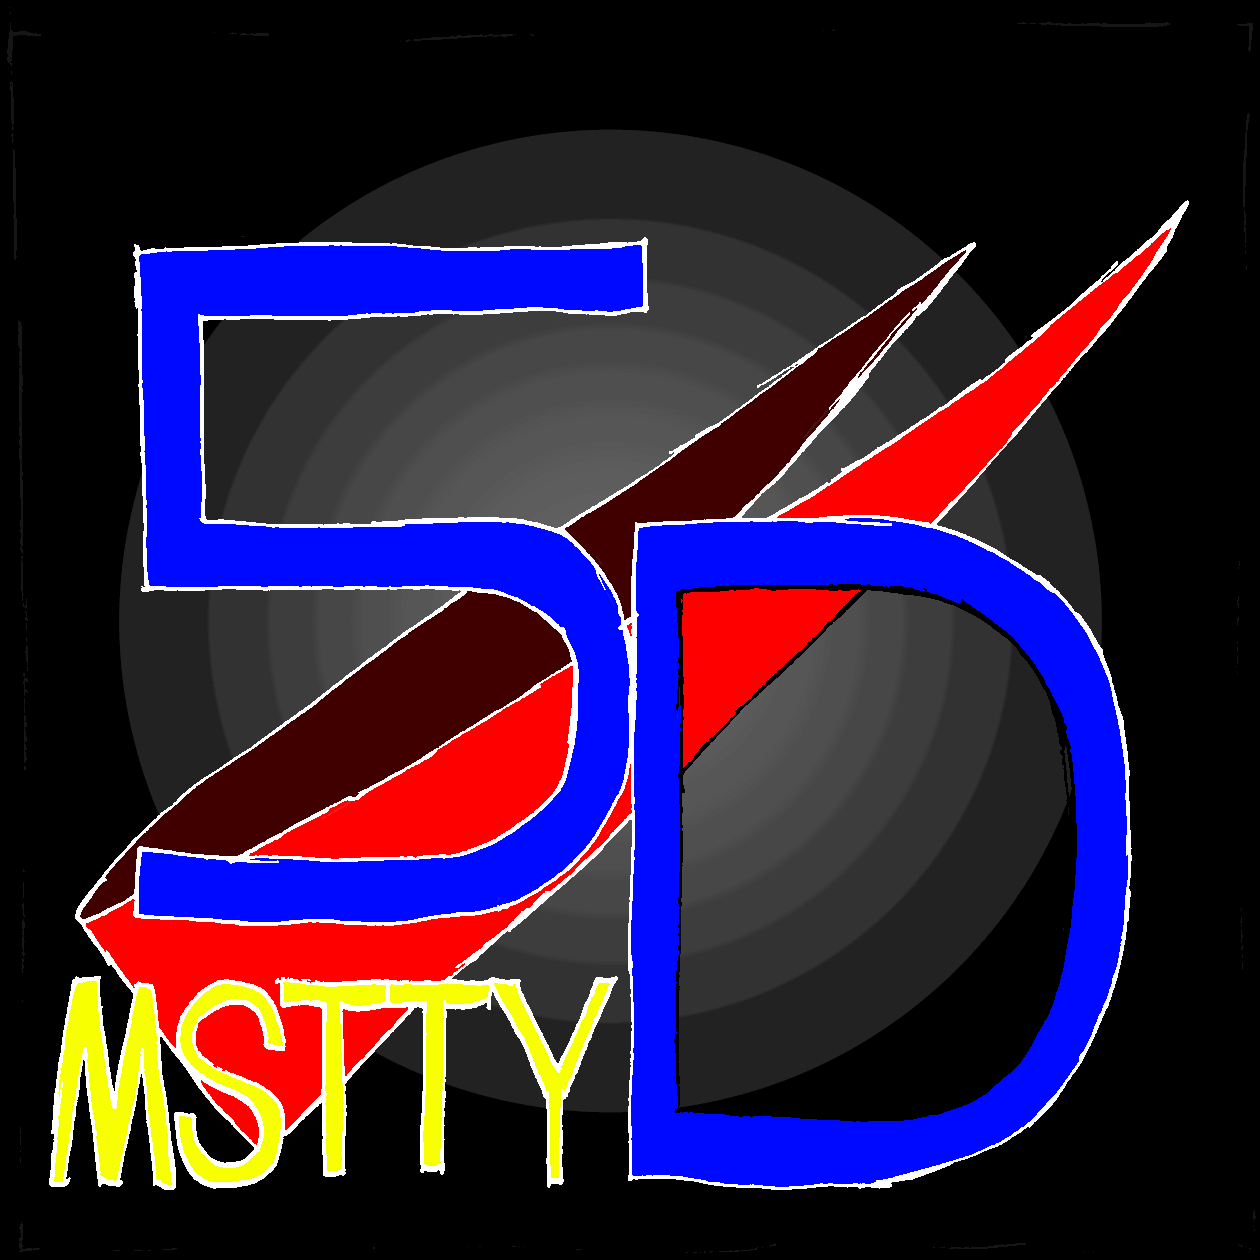
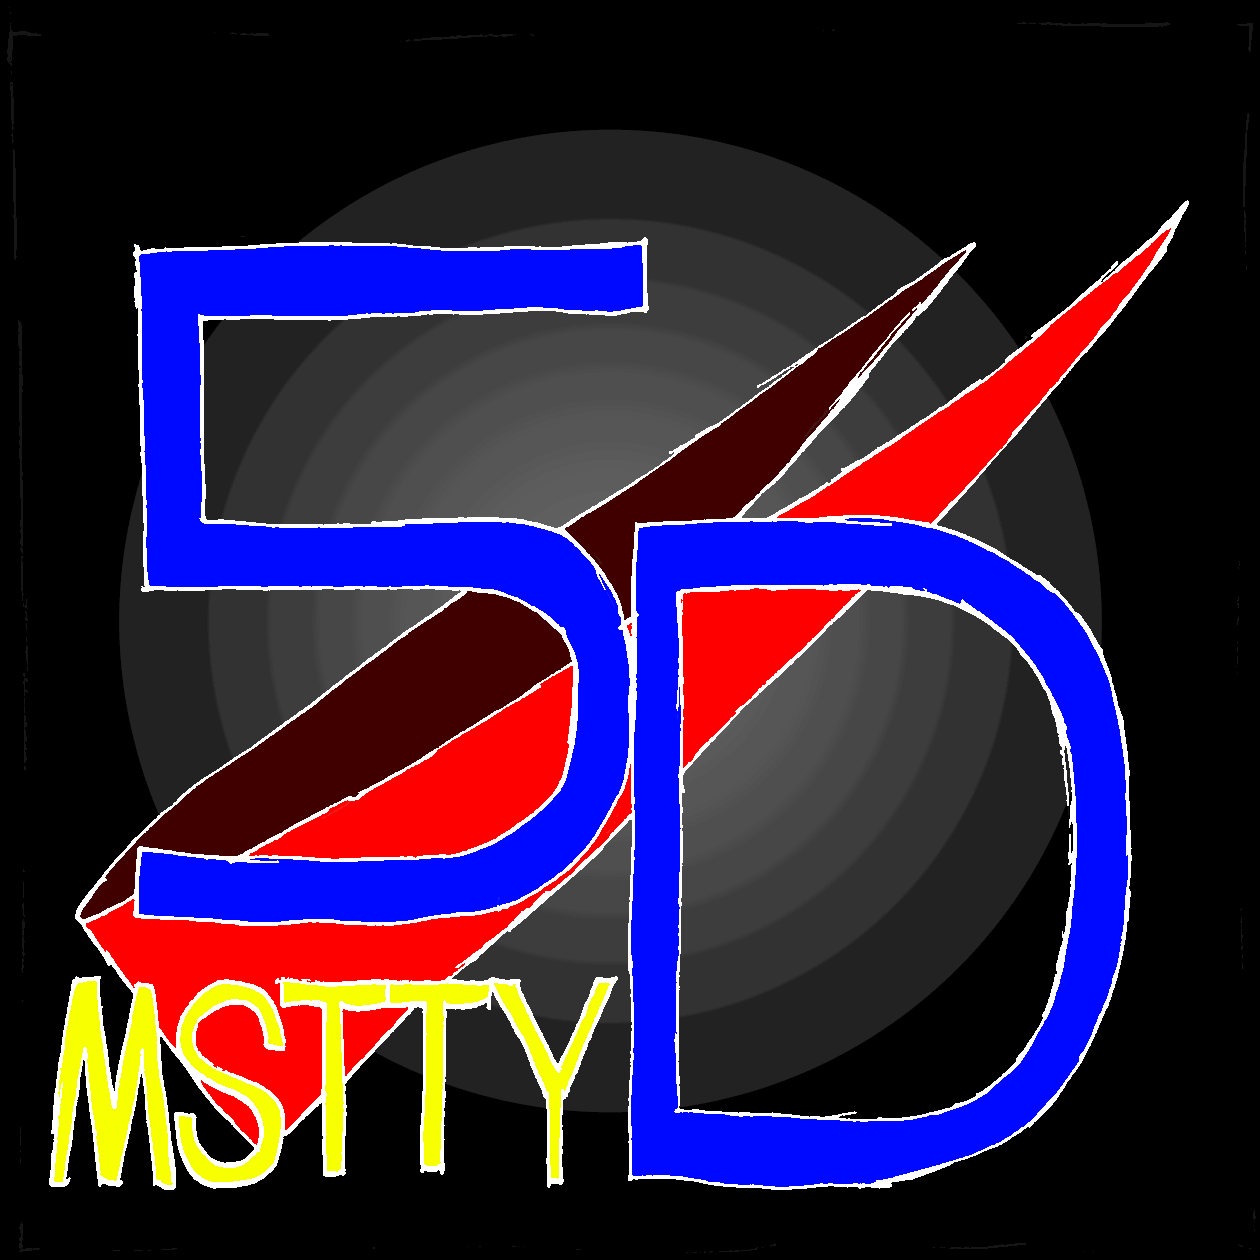
more small changes

diff --git a/index.html b/index.html
@@ -14,7 +14,7 @@
   <header id="title">
     <div> 
       <a href="./index.html">
-          <img src="./assets/images/MSTTY.png" alt="ForGuy's MSTY" class="icon">
+          <img src="./assets/images/MSTTY.png" alt="ForGuy's MSTTY" class="icon">
       </a>
       <a href="./index.html">
         <img src="./assets/images/HT.png" alt="ForGuy's Hockey Trivia" class="banner">
